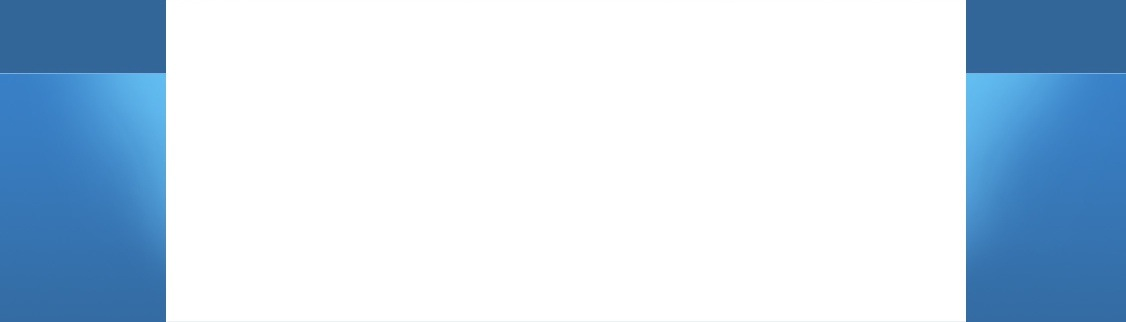
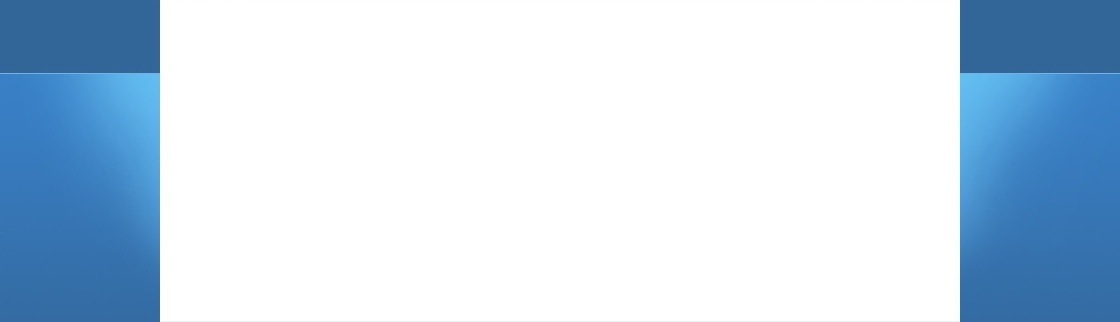
Renamed bg-2.jpg to bg.jpg

Changed region(s): [[0.125, 0.0, 0.1562, 1.0]]

diff --git a/public/stylesheets/application.css b/public/stylesheets/application.css
@@ -20,7 +20,7 @@ body {
 }
 
 #main {
-  background-image: url('../images/bg-2.jpg');
+  background-image: url('../images/bg.jpg');
   background-repeat: no-repeat;
   margin: 0px auto 0px;
   padding-top: 75px;
